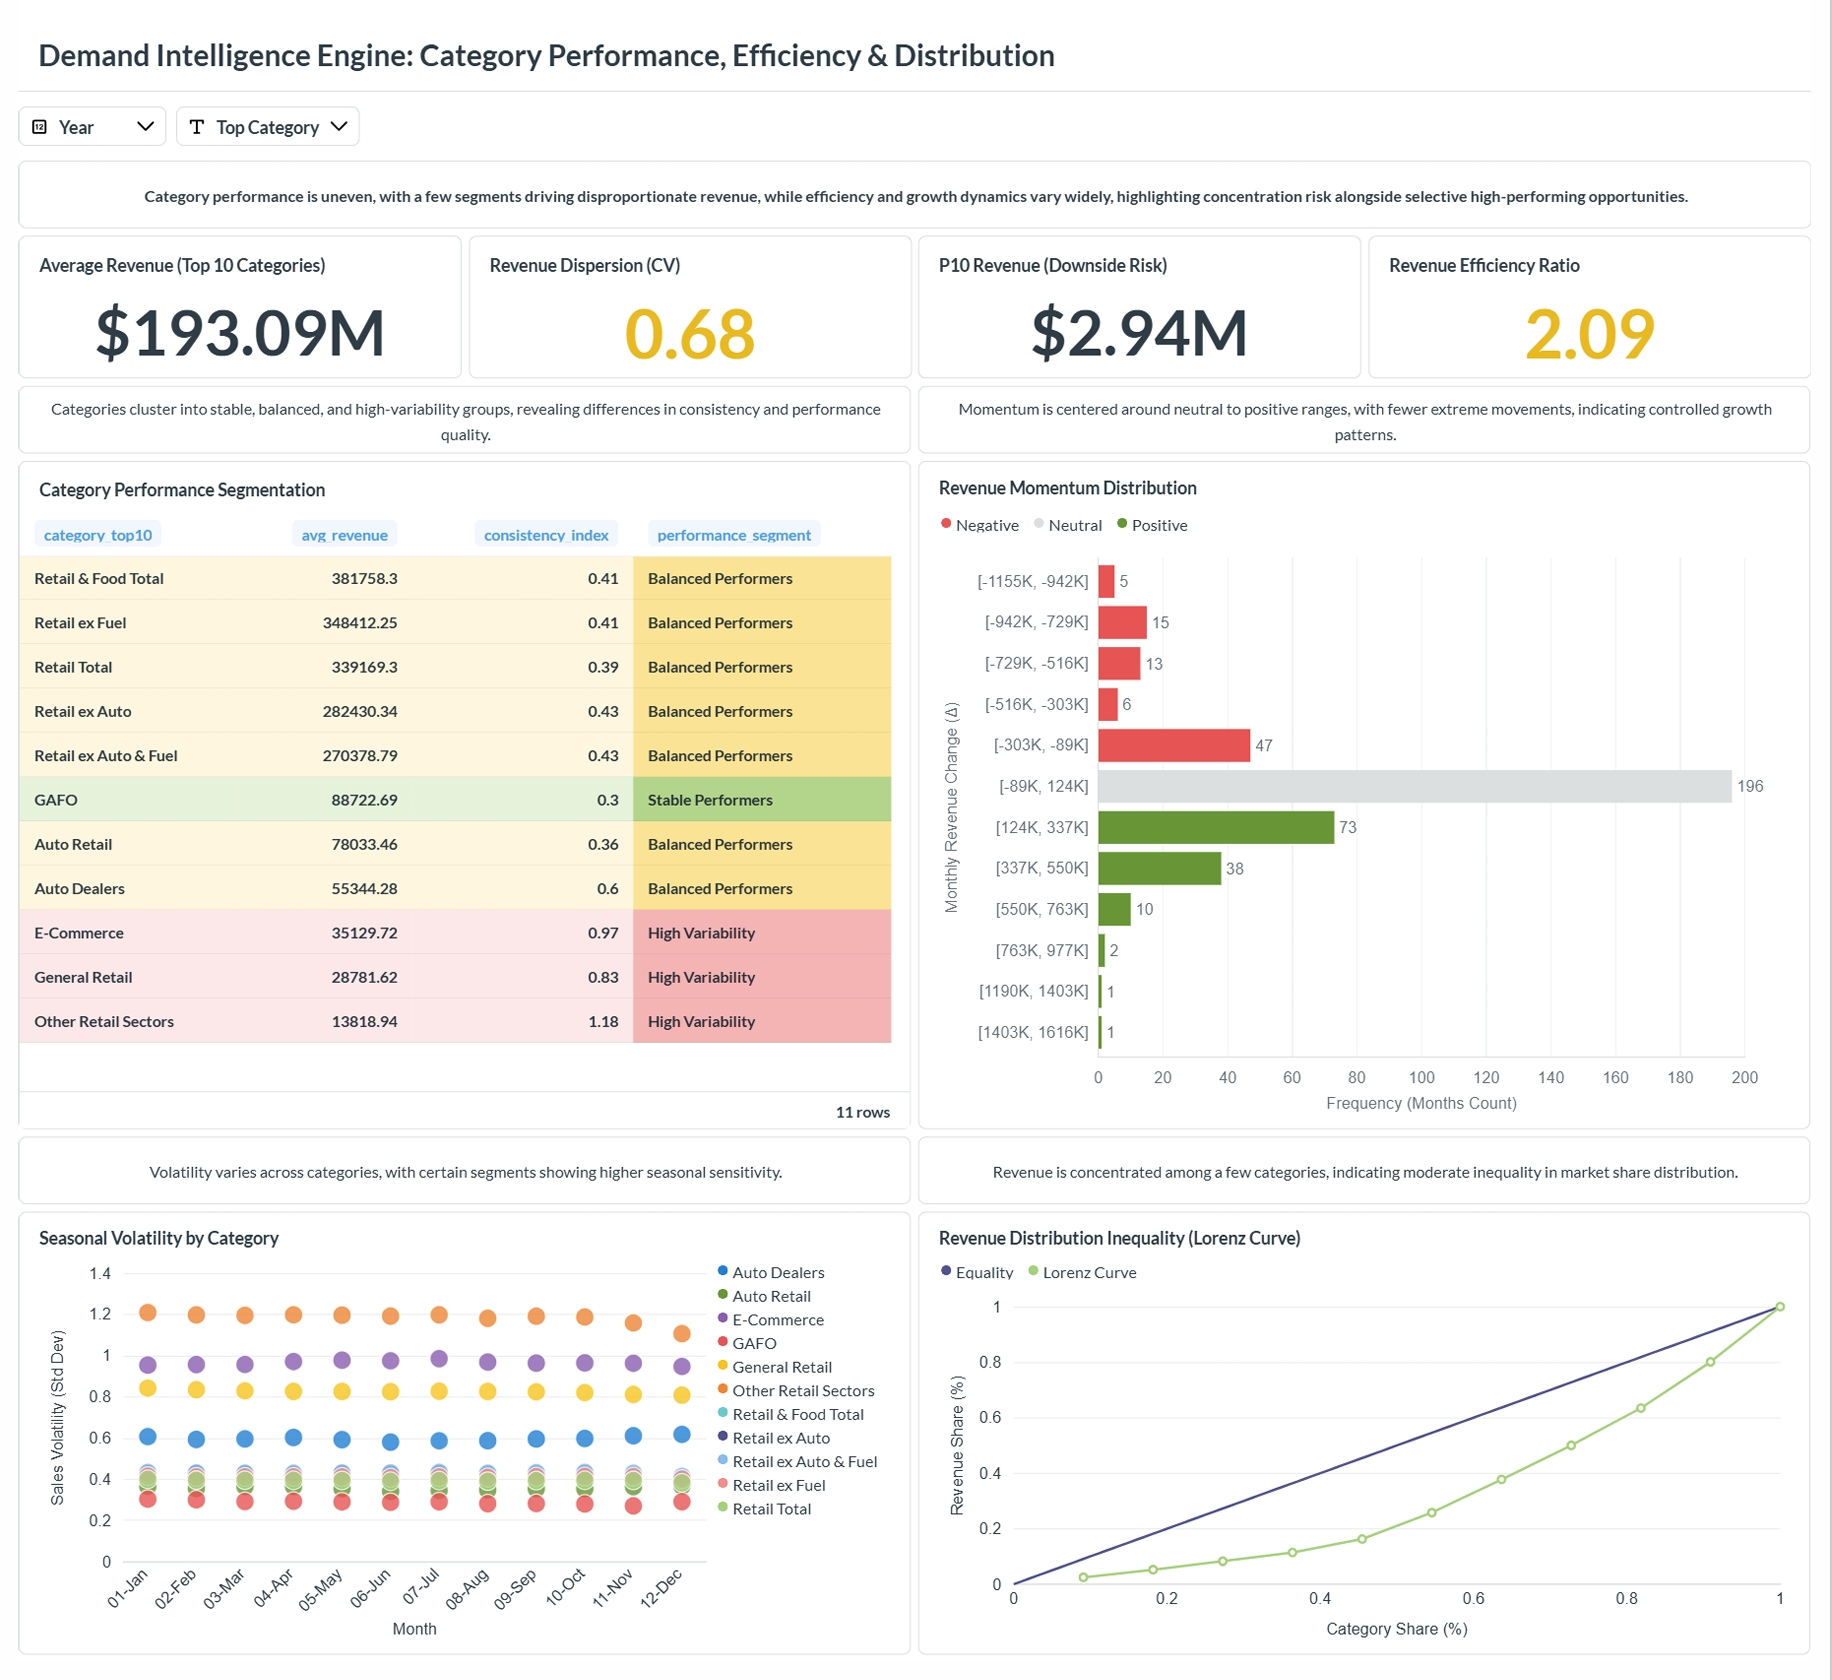
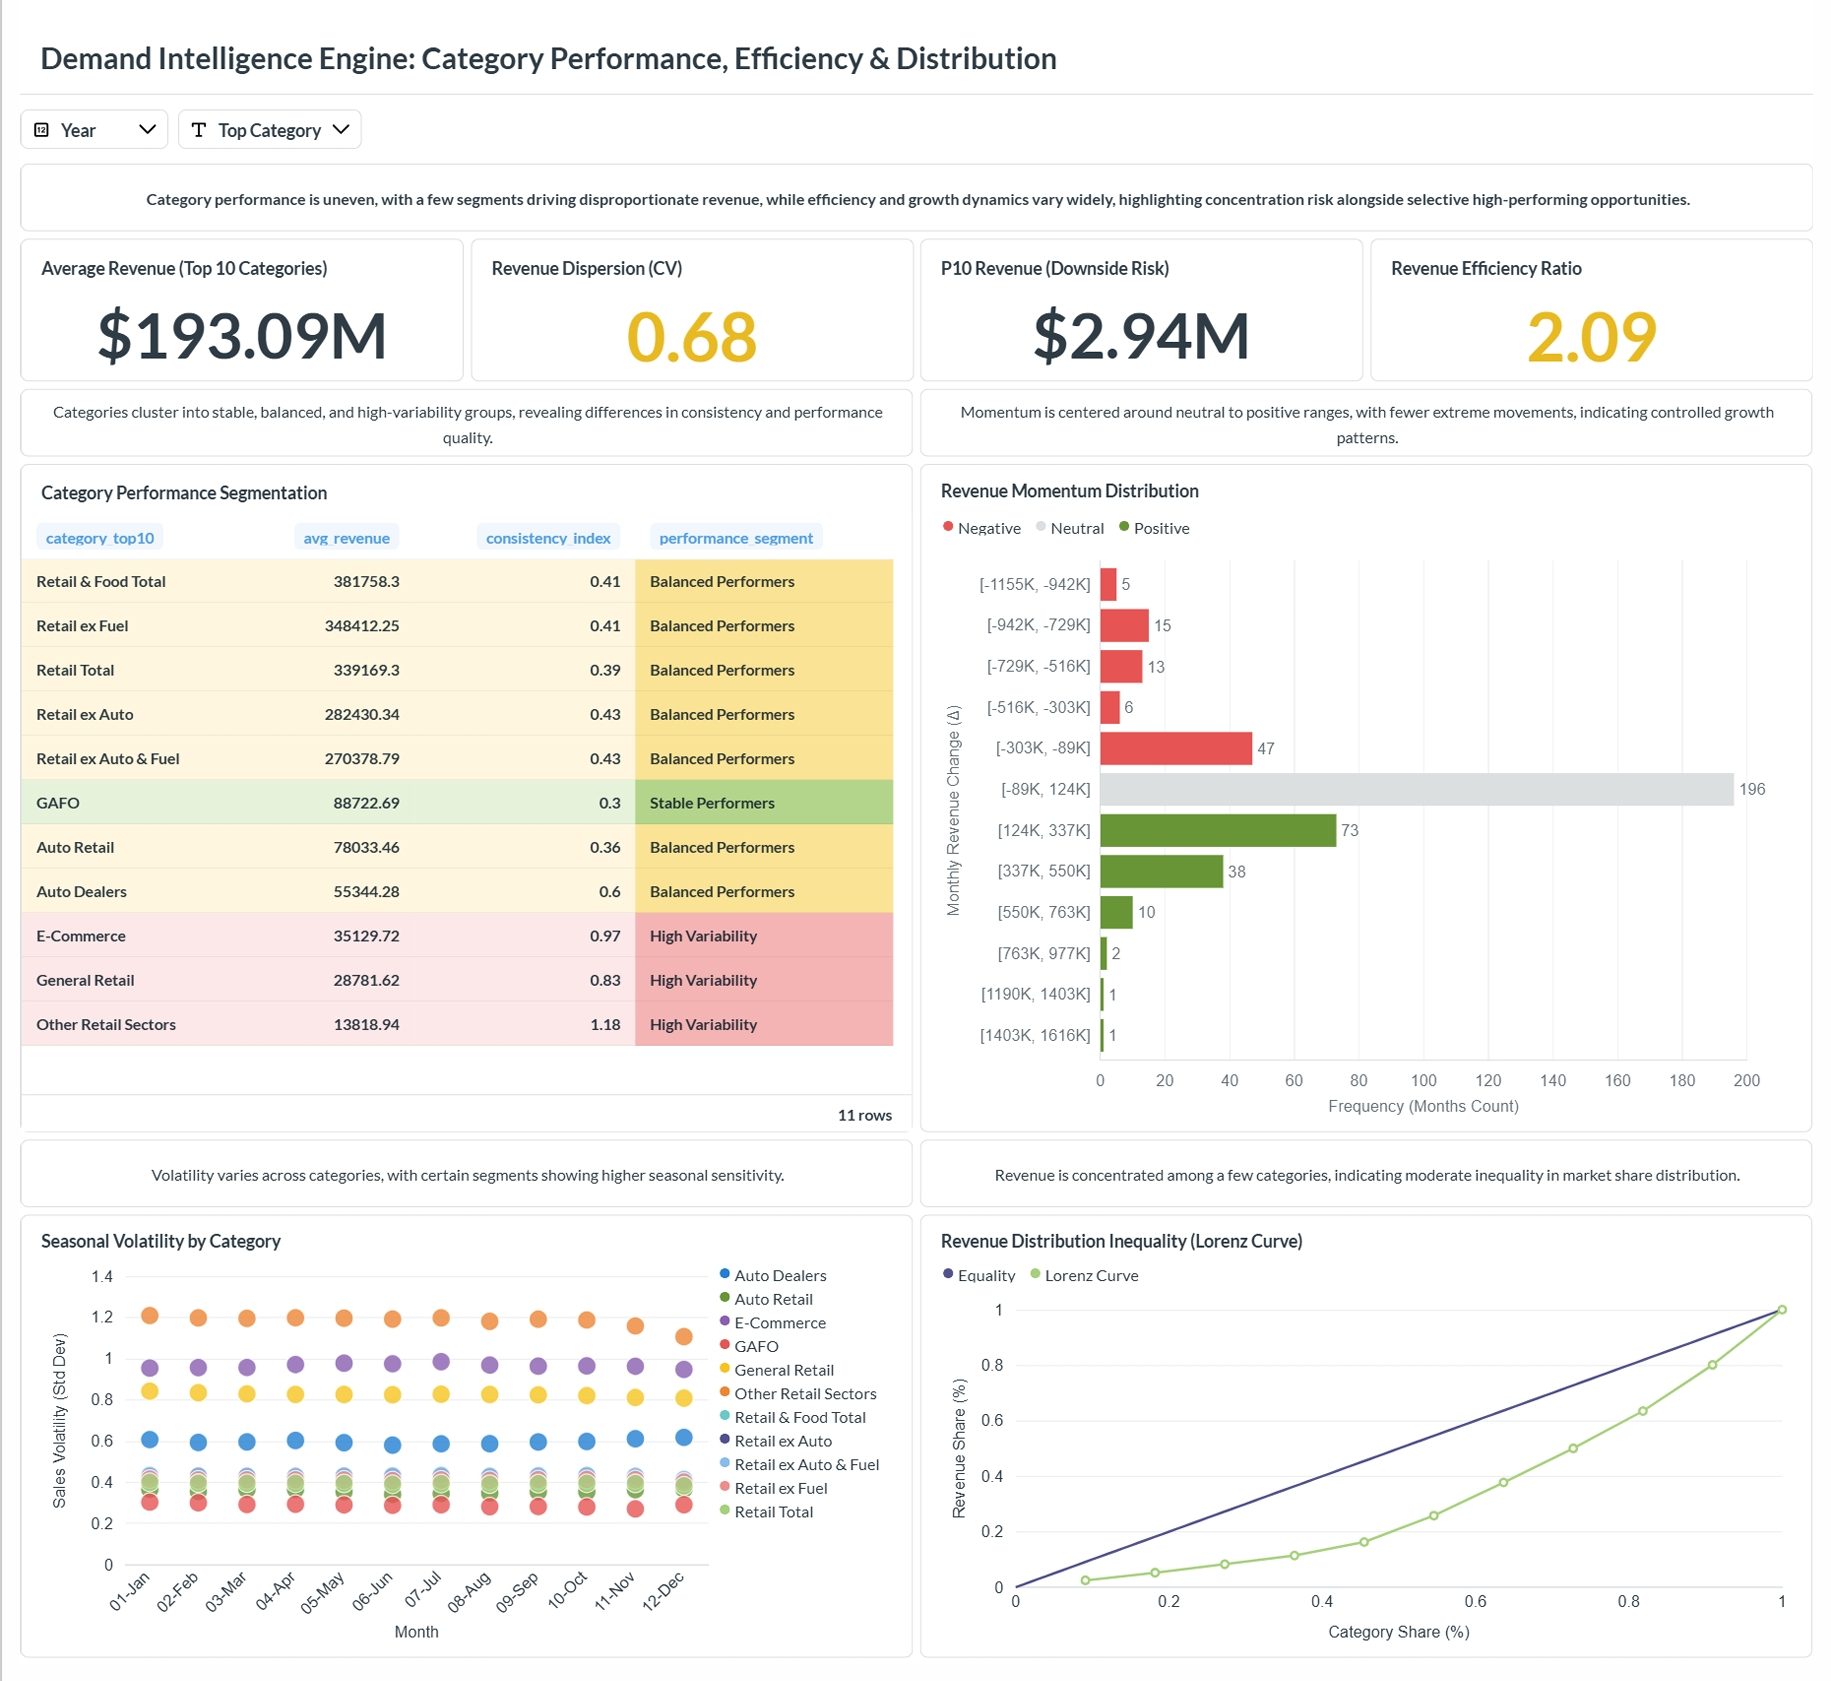
Updated README and project structure

diff --git a/README.md b/README.md
@@ -6,7 +6,7 @@ An end-to-end data analytics project built using U.S. Census retail data to anal
 
 ## 🚀 Project Overview
 
-This project converts raw retail sales data into actionable insights using a structured three-layer analytics approach:
+This project converts raw retail sales data into actionable insights using a structured three-layer analytics approach (Macro → Risk → Category):
 
 - 📈 **Revenue Signal Engine** → Macro-level growth analysis  
 - ⚠️ **Risk & Opportunity Engine** → Volatility and forecasting  
@@ -20,12 +20,14 @@ This project converts raw retail sales data into actionable insights using a str
 - Source: U.S. Census Bureau (Monthly Retail Trade Survey)  
 - Format: 34 CSV files (1992–2025)  
 
+---
+
 ### ⚙️ ETL Process
 - Tool: Python (Pandas, NumPy)  
 - Cleaned and standardized data  
 - Merged multiple files into a single dataset  
 
-**Output:** Master dataset (~4,500 rows)
+**Output:** High-quality master dataset (~4,500 rows)
 
 ---
 
@@ -57,7 +59,7 @@ This project converts raw retail sales data into actionable insights using a str
 ## 📁 Dashboard 1 — Revenue Signal Engine  
 ### U.S. Retail Macro Performance (1992–2025)
 
-🔗 **Live Dashboard:** https://bit.ly/us-retail-macro-signals
+🔗 **Live Dashboard:** https://bit.ly/us-retail-revenue-engine
 
 🖼️ **Screenshot:**  
 ![Dashboard 1](04_assets/1_revenue_signal_engine.jpeg)
@@ -83,7 +85,7 @@ Focuses on demand volatility, stability, and forecasting trends.
 ## 📁 Dashboard 3 — Demand Intelligence Engine  
 ### Category Performance, Efficiency & Distribution
 
-🔗 **Live Dashboard:** https://bit.ly/us-retail-category-intel
+🔗 **Live Dashboard:** https://bit.ly/us-retail-demand-engine
 
 🖼️ **Screenshot:**  
 ![Dashboard 3](04_assets/3_demand_intelligence_engine.jpeg)
@@ -116,19 +118,23 @@ Analyzes category-level performance, efficiency, and revenue distribution.
 
 - U.S. Census Data  
   ↓  
-- Python (Data Cleaning)  
+- Python (Data Cleaning & Preprocessing)  
   ↓  
-- Supabase (PostgreSQL)  
+- Supabase (PostgreSQL – Data Storage)  
   ↓  
-- Metabase (Dashboards)  
+- Metabase (SQL Analysis & Dashboard Layer)  
   ↓  
-- Hugging Face (Hosting)  
+- Hugging Face (Hosting & Deployment)  
   ↓  
 - Public Links (Bitly)  
 
-
 ---
 
-## 👩💻 Author
+## 📬 Contact
 
-**K Jevaneswari**
+If you have any feedback or opportunities, feel free to connect:
+
+- 🔗 LinkedIn: https://www.linkedin.com/in/jevaneswari-k-937a312a0  
+- 💻 GitHub: https://github.com/JevaneswariK   
+
+---